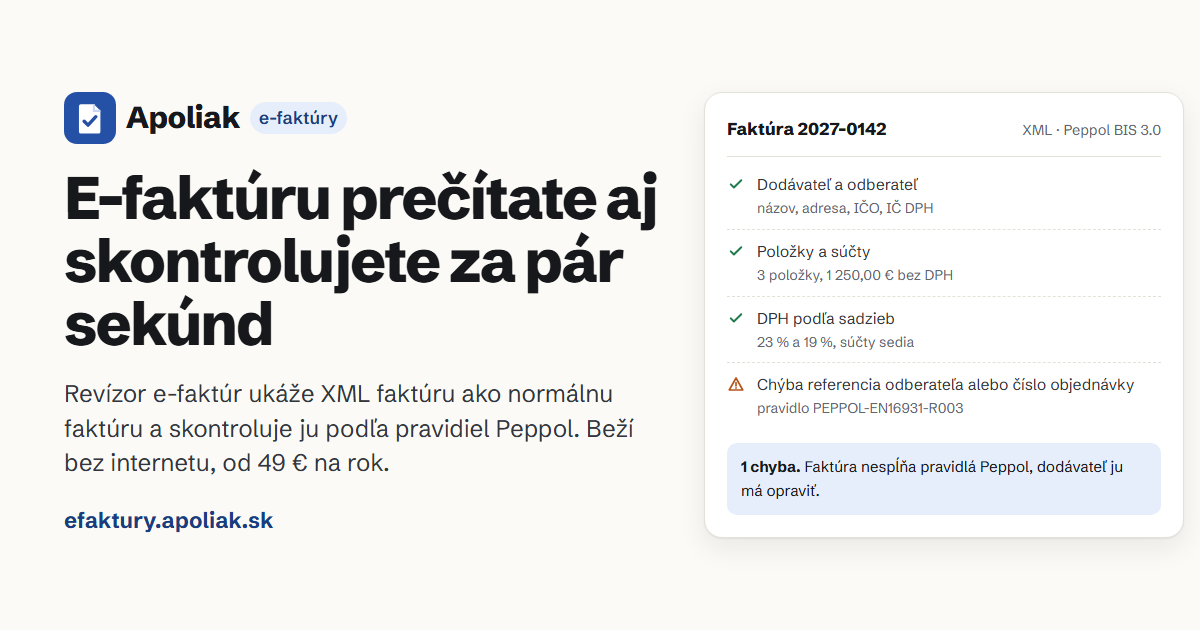
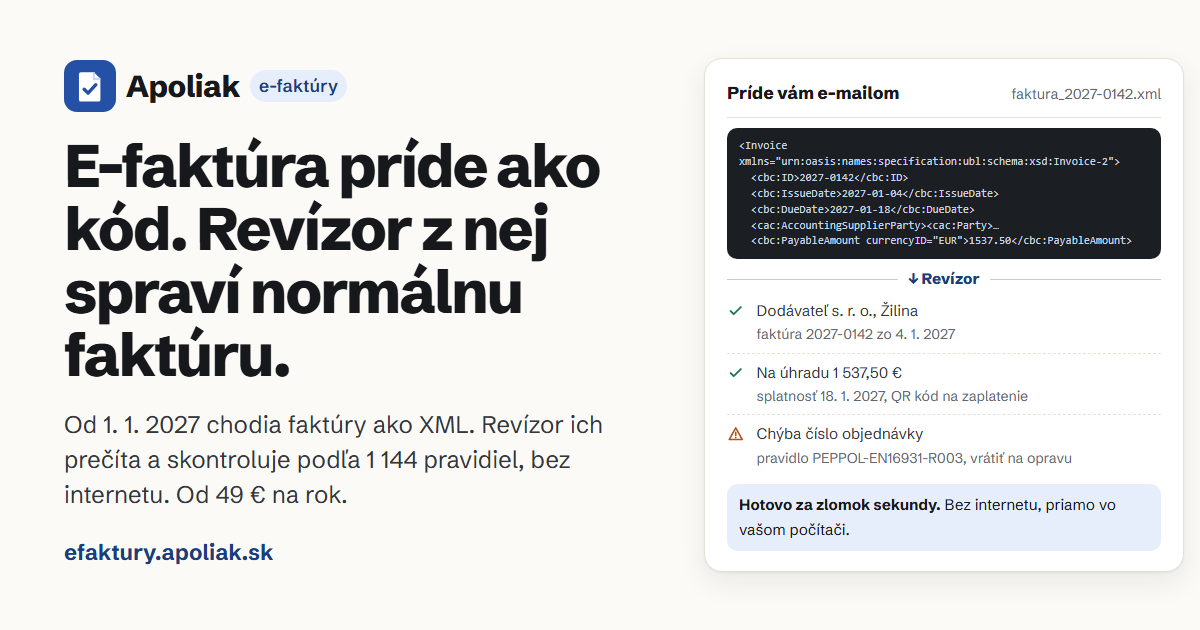
Pätička so živnosťou, úpravy textov

diff --git a/index.html b/index.html
@@ -5,16 +5,16 @@
   <meta http-equiv="Content-Security-Policy" content="default-src 'self'; script-src 'self'; style-src 'self' 'unsafe-inline'; img-src 'self' data:; font-src 'self'; connect-src 'self'; form-action 'self'; base-uri 'self'; object-src 'none'">
   <meta name="referrer" content="strict-origin-when-cross-origin">
   <meta name="viewport" content="width=device-width, initial-scale=1, viewport-fit=cover">
-  <title>Revízor e-faktúr: prečíta a skontroluje e-faktúru | Apoliak</title>
-  <meta name="description" content="Od 1. 1. 2027 chodia faktúry medzi firmami ako XML. Revízor ich ukáže ako normálnu faktúru, skontroluje podľa pravidiel Peppol a EN 16931 a beží bez internetu. Pre firmy aj účtovné kancelárie.">
+  <title>E-faktúry od 1. 1. 2027: Revízor ich prečíta aj skontroluje | Apoliak</title>
+  <meta name="description" content="Od 1. januára 2027 vám budú chodiť faktúry ako XML. Revízor z nich za sekundu spraví normálnu faktúru a skontroluje ich podľa 1 144 pravidiel. Bez internetu, od 49 € na rok.">
   <meta name="theme-color" content="#fbfaf7">
   <meta name="color-scheme" content="light">
   <link rel="canonical" href="https://efaktury.apoliak.sk/">
   <meta property="og:type" content="website">
   <meta property="og:locale" content="sk_SK">
   <meta property="og:site_name" content="Apoliak e-faktúry">
-  <meta property="og:title" content="E-faktúru prečítate aj skontrolujete za pár sekúnd">
-  <meta property="og:description" content="Revízor e-faktúr ukáže XML faktúru ako normálnu faktúru a skontroluje ju podľa pravidiel Peppol. Beží bez internetu, od 49 € na rok.">
+  <meta property="og:title" content="E-faktúra príde ako kód. Revízor z nej spraví normálnu faktúru.">
+  <meta property="og:description" content="Od 1. 1. 2027 chodia faktúry ako XML. Revízor ich prečíta a skontroluje podľa 1 144 pravidiel, bez internetu. Od 49 € na rok.">
   <meta property="og:url" content="https://efaktury.apoliak.sk/">
   <meta property="og:image" content="https://efaktury.apoliak.sk/assets/img/og-image.png">
   <meta property="og:image:width" content="1200">
@@ -32,7 +32,7 @@
   "applicationCategory": "BusinessApplication",
   "operatingSystem": "Windows, macOS (v prehliadači)",
   "url": "https://efaktury.apoliak.sk/",
-  "description": "Zobrazenie a kontrola elektronických faktúr podľa pravidiel Peppol BIS 3.0 a EN 16931, bez internetu.",
+  "description": "Čítanie a kontrola elektronických faktúr podľa 1 144 pravidiel Peppol BIS 3.0 a EN 16931, bez internetu.",
   "offers": [
     {
       "@type": "Offer",
@@ -69,7 +69,7 @@
   <header class="site-header">
     <div class="wrap header-inner">
       <a class="logo" href="./" aria-label="Apoliak e-faktúry – úvod"><svg class="logo-mark" viewBox="0 0 40 40" aria-hidden="true"><rect width="40" height="40" rx="10" fill="#2450a6"/><path d="M13 9.5h10l5 5v16a1.5 1.5 0 01-1.5 1.5h-13.5a1.5 1.5 0 01-1.5-1.5v-19.5a1.5 1.5 0 011.5-1.5z" fill="#fff"/><path d="M23 9.5v5h5" fill="none" stroke="#c9d6f3" stroke-width="1.6"/><path d="M15.5 22.5l3 3 6-6.5" fill="none" stroke="#2450a6" stroke-width="2.6" stroke-linecap="round" stroke-linejoin="round"/></svg>Apoliak <span class="logo-tag">e-faktúry</span></a>
-      <nav class="nav" aria-label="Hlavné menu"><a href="#zmena">Čo sa mení</a><a href="#funkcie">Čo vie Revízor</a><a href="#ukazka">Ukážka</a><a href="#cennik">Cenník</a><a href="#otazky">Otázky</a></nav>
+      <nav class="nav" aria-label="Hlavné menu"><a href="#ako">Ako to funguje</a><a href="#pre-koho">Pre koho</a><a href="#ukazka">Ukážka</a><a href="#cennik">Cena</a><a href="#otazky">Otázky</a></nav>
       <a class="btn btn--small" href="./#kontakt">Kontakt</a>
     </div>
   </header>
@@ -77,32 +77,65 @@
     <section class="hero">
       <div class="wrap hero-grid">
         <div>
-          <span class="eyebrow"><span class="nb">E-faktúry</span> od 1. januára 2027</span>
-          <h1><span class="nb">E-faktúru</span> prečítate aj skontrolujete za pár sekúnd</h1>
-          <p class="lead">Od januára budú firmám chodiť faktúry ako XML súbory. Revízor ich ukáže ako normálnu faktúru, povie, či sú v&nbsp;poriadku, a&nbsp;nič pritom neposiela na internet.</p>
-          <div class="cta-row"><a class="btn" href="ukazka/">Vyskúšať ukážku</a><a class="btn btn--ghost" href="#cennik">Cenník</a></div>
-          <ul class="facts"><li><svg class="icon" aria-hidden="true"><use href="#i-check"/></svg>Pravidlá Peppol BIS 3.0 a&nbsp;EN 16931</li><li><svg class="icon" aria-hidden="true"><use href="#i-check"/></svg>Beží bez internetu</li><li><svg class="icon" aria-hidden="true"><use href="#i-check"/></svg>Stačí prehliadač, nič sa neinštaluje</li></ul>
+          <span class="eyebrow"><span data-odpocet="2027-01-01"><span class="nb">E-faktúry</span> sú povinné od 1. januára 2027</span></span>
+          <h1><span class="nb">E-faktúra</span> príde ako kód. Revízor z&nbsp;nej spraví normálnu faktúru.</h1>
+          <p class="lead">Od januára budú firmám chodiť faktúry ako XML súbory, ktoré sa bez programu čítať nedajú. Revízor vám každú za sekundu ukáže ako normálnu faktúru, skontroluje ju podľa 1&nbsp;144 oficiálnych pravidiel a&nbsp;nič pritom neposiela na internet.</p>
+          <div class="cta-row"><a class="btn" href="#cennik">Objednať Revízor</a><a class="btn btn--ghost" href="ukazka/">Vyskúšať ukážku</a></div>
+          <ul class="facts"><li><svg class="icon" aria-hidden="true"><use href="#i-check"/></svg>1&nbsp;144 oficiálnych pravidiel</li><li><svg class="icon" aria-hidden="true"><use href="#i-check"/></svg>Faktúry neopustia váš počítač</li><li><svg class="icon" aria-hidden="true"><use href="#i-check"/></svg>Od 4&nbsp;€ mesačne</li></ul>
         </div>
-        <div><div class="panel" role="img" aria-label="Ukážka výsledku kontroly e-faktúry v Revízore">
-            <div class="panel-head"><span class="panel-title">Faktúra 2027-0142</span><span class="panel-sub">XML · Peppol BIS 3.0</span></div>
+        <div><div class="panel" role="img" aria-label="E-faktúra ako XML súbor a tá istá faktúra v Revízore">
+            <div class="panel-head"><span class="panel-title">Príde vám e-mailom</span><span class="panel-sub">faktura_2027-0142.xml</span></div>
+            <pre class="xml" aria-hidden="true">&lt;Invoice xmlns="urn:oasis:names:specification:ubl:schema:xsd:Invoice-2"&gt;
+  &lt;cbc:ID&gt;2027-0142&lt;/cbc:ID&gt;
+  &lt;cbc:IssueDate&gt;2027-01-04&lt;/cbc:IssueDate&gt;
+  &lt;cbc:DueDate&gt;2027-01-18&lt;/cbc:DueDate&gt;
+  &lt;cac:AccountingSupplierParty&gt;&lt;cac:Party&gt;…
+  &lt;cbc:PayableAmount currencyID="EUR"&gt;1537.50&lt;/cbc:PayableAmount&gt;</pre>
+            <div class="arrow">↓&nbsp;Revízor</div>
             <ul class="rows">
-              <li class="is-ok"><svg class="icon" aria-hidden="true"><use href="#i-check"/></svg><div>Dodávateľ a odberateľ<small>názov, adresa, IČO, IČ DPH</small></div></li>
-              <li class="is-ok"><svg class="icon" aria-hidden="true"><use href="#i-check"/></svg><div>Položky a súčty<small>3 položky, 1&nbsp;250,00&nbsp;€ bez DPH</small></div></li>
-              <li class="is-ok"><svg class="icon" aria-hidden="true"><use href="#i-check"/></svg><div>DPH podľa sadzieb<small>23&nbsp;% a 19&nbsp;%, súčty sedia</small></div></li>
-              <li class="is-warn"><svg class="icon" aria-hidden="true"><use href="#i-warn"/></svg><div>Chýba referencia odberateľa alebo číslo objednávky<small>pravidlo PEPPOL-EN16931-R003</small></div></li>
+              <li class="is-ok"><svg class="icon" aria-hidden="true"><use href="#i-check"/></svg><div>Dodávateľ s.&nbsp;r.&nbsp;o., Žilina<small>faktúra 2027-0142 zo 4. 1. 2027</small></div></li>
+              <li class="is-ok"><svg class="icon" aria-hidden="true"><use href="#i-check"/></svg><div>Na úhradu 1&nbsp;537,50&nbsp;€<small>splatnosť 18. 1. 2027, QR kód na zaplatenie</small></div></li>
+              <li class="is-warn"><svg class="icon" aria-hidden="true"><use href="#i-warn"/></svg><div>Chýba číslo objednávky<small>pravidlo PEPPOL-EN16931-R003, vrátiť na opravu</small></div></li>
             </ul>
-            <div class="panel-foot"><strong>1 chyba.</strong> Faktúra nespĺňa pravidlá Peppol, dodávateľ ju má opraviť.</div>
+            <div class="panel-foot"><strong>Hotovo za zlomok sekundy.</strong> Bez internetu, priamo vo vašom počítači.</div>
           </div></div>
       </div>
     </section>
     <section class="section" id="zmena" aria-labelledby="zmena-nadpis">
-      <div class="wrap"><div class="section-head"><h2 id="zmena-nadpis">Čo sa mení od 1. januára 2027</h2><p>Novela zákona o&nbsp;DPH (zákon č. 385/2025 Z. z.) zavádza povinné elektronické faktúry. Týka sa to takmer každej firmy na Slovensku.</p></div><div class="cards"><article class="card"><h3>Platitelia DPH vystavujú <span class="nb">e-faktúry</span></h3><p>Faktúry medzi firmami na Slovensku posielajú ako XML súbor cez sieť Peppol, nie ako PDF.</p></article><article class="card"><h3>Prijať ich musí každá firma</h3><p>Aj neplatiteľ DPH musí vedieť <span class="nb">e-faktúru</span> prijať. Príde súbor, ktorý sa bez programu poriadne čítať nedá.</p></article><article class="card"><h3>Chyby treba vybaviť skôr</h3><p>Chybná <span class="nb">e-faktúra</span> narobí problémy v&nbsp;účtovníctve. Kto ju skontroluje hneď pri prijatí, vybaví opravu s&nbsp;dodávateľom včas.</p></article></div></div>
+      <div class="wrap"><div class="section-head"><h2 id="zmena-nadpis">Čo sa 1. januára zmení</h2><p>Novela zákona o&nbsp;DPH (zákon č. 385/2025 Z. z.) zavádza povinné elektronické faktúry. Dotkne sa to takmer každej firmy na Slovensku.</p></div><div class="cards"><article class="card"><h3>Faktúry prídu ako kód</h3><p>Platitelia DPH posielajú faktúry medzi firmami ako XML súbor cez sieť Peppol. Otvorený v&nbsp;prehliadači vyzerá ako ukážka hore.</p></article><article class="card"><h3>Prijať ich musí každý</h3><p>Aj neplatiteľ DPH musí vedieť <span class="nb">e-faktúru</span> prijať. Kto ju neotvorí, nevie, koľko a&nbsp;dokedy má zaplatiť.</p></article><article class="card"><h3>Chyby sa odhalia neskoro</h3><p>Chybnú faktúru treba vrátiť dodávateľovi. Kto ju zachytí až pri uzávierke, rieši opravy narýchlo a&nbsp;po termíne.</p></article></div></div>
+    </section>
+    <section class="section section--alt" id="ako" aria-labelledby="ako-nadpis">
+      <div class="wrap"><div class="section-head"><h2 id="ako-nadpis">Ako to funguje</h2></div><ol class="steps"><li><h3>Otvoríte Revízor</h3><p>Jeden súbor, dvojklik a&nbsp;otvorí sa v&nbsp;prehliadači. Nič sa neinštaluje.</p></li><li><h3>Vložíte XML</h3><p>Jednu faktúru alebo faktúry za celý mesiac naraz.</p></li><li><h3>Vidíte faktúru</h3><p>Dodávateľ, položky, DPH, splatnosť a&nbsp;QR kód na zaplatenie, ako na papieri.</p></li><li><h3>Viete, čo je zle</h3><p>Každú chybu Revízor vysvetlí po slovensky, takže dodávateľovi presne napíšete, čo má opraviť.</p></li></ol></div>
+    </section>
+    <section class="section" id="pre-koho" aria-labelledby="pre-koho-nadpis">
+      <div class="wrap"><div class="section-head"><h2 id="pre-koho-nadpis">Pre koho je Revízor</h2><p>Najviac ušetrí tam, kde <span class="nb">e-faktúr</span> chodí veľa. Pomôže však každému, kto ich musí prijímať.</p></div><div class="cards cards--2">
+          <article class="card card--big">
+            <h3>Účtovné kancelárie</h3>
+            <p>Klienti vám od januára budú nosiť XML súbory po desiatkach. Revízor ich skontroluje naraz, chybné vyznačí a&nbsp;výsledok dá do tabuľky, ktorú pošlete klientovi.</p>
+            <ul class="checks">
+              <li><svg class="icon" aria-hidden="true"><use href="#i-check"/></svg><span>Kontrola faktúr za celý mesiac naraz</span></li>
+              <li><svg class="icon" aria-hidden="true"><use href="#i-check"/></svg><span>Faktúry všetkých klientov v&nbsp;jednej licencii</span></li>
+              <li><svg class="icon" aria-hidden="true"><use href="#i-check"/></svg><span>Na všetkých počítačoch v&nbsp;kancelárii</span></li>
+            </ul>
+            <p class="card-price"><strong>149&nbsp;€ na rok</strong> za všetkých klientov, teda asi 12&nbsp;€ mesačne</p>
+          </article>
+          <article class="card card--big">
+            <h3>Firmy a&nbsp;živnostníci</h3>
+            <p>Faktúru od dodávateľa otvoríte dvojklikom a&nbsp;hneď viete, koľko a&nbsp;dokedy zaplatiť a&nbsp;či je v&nbsp;poriadku. Vlastnú <span class="nb">e-faktúru</span> pripravíte vo formulári.</p>
+            <ul class="checks">
+              <li><svg class="icon" aria-hidden="true"><use href="#i-check"/></svg><span>Čitateľná faktúra s&nbsp;QR kódom na platbu</span></li>
+              <li><svg class="icon" aria-hidden="true"><use href="#i-check"/></svg><span>Kontrola pred zaplatením aj pred odoslaním</span></li>
+              <li><svg class="icon" aria-hidden="true"><use href="#i-check"/></svg><span>Vystavenie <span class="nb">e-faktúry</span> vo formáte Peppol</span></li>
+            </ul>
+            <p class="card-price"><strong>49&nbsp;€ na rok</strong>, teda asi 4&nbsp;€ mesačne</p>
+          </article>
+        </div></div>
     </section>
     <section class="section section--alt" id="funkcie" aria-labelledby="funkcie-nadpis">
-      <div class="wrap"><div class="section-head"><h2 id="funkcie-nadpis">Čo Revízor urobí</h2><p>Revízor je jeden súbor, ktorý otvoríte v&nbsp;prehliadači. Faktúry spracúva priamo vo vašom počítači.</p></div><div class="cards"><article class="card"><h3>Ukáže faktúru ako na papieri</h3><p>Dodávateľ, odberateľ, položky, DPH, splatnosť aj QR kód PAY by square na zaplatenie. Faktúru vytlačíte alebo uložíte do PDF.</p></article><article class="card"><h3>Skontroluje ju podľa pravidiel</h3><p>Podľa pravidiel Peppol BIS 3.0 a&nbsp;normy EN 16931, ktoré platia v&nbsp;celej Európe. Každú chybu vysvetlí po slovensky.</p></article><article class="card"><h3>Celý mesiac naraz</h3><p>Vložíte desiatky faktúr a&nbsp;Revízor skontroluje každú z&nbsp;nich. Výsledok uložíte do tabuľky alebo do ZIP.</p></article><article class="card"><h3>Vystaví <span class="nb">e-faktúru</span></h3><p>Vyplníte formulár a&nbsp;Revízor pripraví XML vo formáte Peppol UBL, ktoré pošlete cez svojho poskytovateľa.</p></article><article class="card"><h3>Prevedie CII na UBL</h3><p>Faktúry vo formáte CII, napríklad nemecký ZUGFeRD, prevedie na UBL, s&nbsp;ktorým pracuje sieť Peppol.</p></article><article class="card"><h3>Nič neodosiela</h3><p>Revízor nemá prístup na internet. Faktúry s&nbsp;cenami a&nbsp;menami vašich klientov zostanú vo vašom počítači.</p></article></div><div class="callout"><svg class="icon" aria-hidden="true"><use href="#i-warn"/></svg><div><h3>Revízor faktúry neposiela</h3><p>Posielať a&nbsp;prijímať <span class="nb">e-faktúry</span> cez sieť Peppol môže len poskytovateľ zo zoznamu finančnej správy, takzvaný digitálny poštár. Revízor ho nenahrádza. Pomôže vám faktúry prečítať, skontrolovať a&nbsp;pripraviť.</p></div></div></div>
+      <div class="wrap"><div class="section-head"><h2 id="funkcie-nadpis">Čo všetko Revízor vie</h2></div><div class="cards"><article class="card"><h3>Čitateľná faktúra</h3><p>Dodávateľ, odberateľ, položky, DPH, splatnosť aj QR kód PAY by square. Faktúru vytlačíte alebo uložíte do PDF.</p></article><article class="card"><h3>1&nbsp;144 oficiálnych pravidiel</h3><p>Tie isté pravidlá Peppol BIS 3.0 a&nbsp;normy EN 16931, podľa ktorých sa <span class="nb">e-faktúry</span> kontrolujú v&nbsp;celej Európe.</p></article><article class="card"><h3>Celý mesiac naraz</h3><p>Vložíte desiatky faktúr, Revízor skontroluje každú z&nbsp;nich a&nbsp;výsledok uloží do tabuľky.</p></article><article class="card"><h3>Vystavenie <span class="nb">e-faktúry</span></h3><p>Vyplníte formulár a&nbsp;Revízor pripraví XML vo formáte Peppol UBL, ktoré pošlete cez svojho poskytovateľa.</p></article><article class="card"><h3>Prevod CII na UBL</h3><p>Faktúry vo formáte CII, napríklad nemecký ZUGFeRD, prevedie na UBL, s&nbsp;ktorým pracuje sieť Peppol.</p></article><article class="card"><h3>Žiadny únik údajov</h3><p>Revízor sa na internet nepripája. Ceny, klienti ani sumy neodídu z&nbsp;vášho počítača.</p></article></div></div>
     </section>
     <section class="section" id="ukazka" aria-labelledby="ukazka-nadpis">
-      <div class="wrap"><div class="section-head"><h2 id="ukazka-nadpis">Vyskúšajte Revízor na vzorovej faktúre</h2><p>Ukážka je celý Revízor, len nevie faktúru stiahnuť ani vytlačiť. Stiahnite si vzor a&nbsp;vložte ho do ukážky, alebo skúste vlastnú <span class="nb">e-faktúru</span>.</p></div><div class="demo">
+      <div class="wrap"><div class="section-head"><h2 id="ukazka-nadpis">Vyskúšajte ho skôr, ako zaplatíte</h2><p>Ukážka je celý Revízor, len nevie faktúru stiahnuť ani vytlačiť. Vložte do nej vzorovú alebo vlastnú <span class="nb">e-faktúru</span>.</p></div><div class="demo">
           <div>
             <p><a class="btn" href="ukazka/">Otvoriť ukážku Revízora</a></p>
             <p class="small">Ukážka beží len vo vašom prehliadači. Faktúry, ktoré do nej vložíte, nikam neodchádzajú.</p>
@@ -117,22 +150,22 @@
         </div></div>
     </section>
     <section class="section section--alt" id="cennik" aria-labelledby="cennik-nadpis">
-      <div class="wrap"><div class="section-head"><h2 id="cennik-nadpis">Cenník</h2><p>Platíte raz za rok. Revízor, ktorý dostanete, vám zostane aj potom, len už nebude dostávať nové pravidlá.</p></div><div class="prices"><article class="price"><div class="price-name">Pre firmu</div><div class="price-amount">49&nbsp;€ <span class="price-unit">na rok</span></div><p class="price-note">pre faktúry jednej firmy</p><ul class="checks"><li><svg class="icon" aria-hidden="true"><use href="#i-check"/></svg><span>Čítanie a&nbsp;kontrola faktúr bez obmedzenia</span></li><li><svg class="icon" aria-hidden="true"><use href="#i-check"/></svg><span>Vystavenie <span class="nb">e-faktúry</span> a&nbsp;prevod CII na UBL</span></li><li><svg class="icon" aria-hidden="true"><use href="#i-check"/></svg><span>Kontrola po dávkach a&nbsp;výsledok do tabuľky</span></li><li><svg class="icon" aria-hidden="true"><use href="#i-check"/></svg><span>Nové pravidlá počas celého roka</span></li></ul><a class="btn btn--ghost" href="mailto:efaktury@apoliak.sk?subject=Objedn%C3%A1vka%20Rev%C3%ADzora%20pre%20firmu&amp;body=Dobr%C3%BD%20de%C5%88%2C%0A%0Aobjedn%C3%A1vam%20Rev%C3%ADzor%20e-fakt%C3%BAr%20pre%20firmu%20na%201%20rok%20%2849%20%E2%82%AC%29.%0A%0AFirma%3A%0AI%C4%8CO%3A%0AE-mail%2C%20kam%20posla%C5%A5%20Rev%C3%ADzor%3A%0A%0A%C4%8Eakujem">Objednať pre firmu</a></article><article class="price price--main"><div class="price-name">Pre účtovnú kanceláriu</div><div class="price-amount">149&nbsp;€ <span class="price-unit">na rok</span></div><p class="price-note">pre faktúry všetkých vašich klientov</p><ul class="checks"><li><svg class="icon" aria-hidden="true"><use href="#i-check"/></svg><span>Všetko z&nbsp;balíka pre firmu</span></li><li><svg class="icon" aria-hidden="true"><use href="#i-check"/></svg><span>Faktúry ľubovoľného počtu klientov</span></li><li><svg class="icon" aria-hidden="true"><use href="#i-check"/></svg><span>Na všetkých počítačoch v&nbsp;kancelárii</span></li><li><svg class="icon" aria-hidden="true"><use href="#i-check"/></svg><span>Odpoveď na otázky do jedného pracovného dňa</span></li></ul><a class="btn" href="mailto:efaktury@apoliak.sk?subject=Objedn%C3%A1vka%20Rev%C3%ADzora%20pre%20%C3%BA%C4%8Dtovn%C3%BA%20kancel%C3%A1riu&amp;body=Dobr%C3%BD%20de%C5%88%2C%0A%0Aobjedn%C3%A1vam%20Rev%C3%ADzor%20e-fakt%C3%BAr%20pre%20%C3%BA%C4%8Dtovn%C3%BA%20kancel%C3%A1riu%20na%201%20rok%20%28149%20%E2%82%AC%29.%0A%0AKancel%C3%A1ria%3A%0AI%C4%8CO%3A%0AE-mail%2C%20kam%20posla%C5%A5%20Rev%C3%ADzor%3A%0A%0A%C4%8Eakujem">Objednať pre kanceláriu</a></article></div><p class="prices-after">Ceny sú konečné, nie sme platiteľmi DPH. Pošleme vám faktúru so splatnosťou 7&nbsp;dní a&nbsp;Revízor dostanete <span class="nb">e-mailom</span> hneď po pripísaní platby. Keď sa zmenia pravidlá Peppol, spravidla v&nbsp;máji a&nbsp;v&nbsp;novembri, pošleme novú verziu.</p></div>
+      <div class="wrap"><div class="section-head"><h2 id="cennik-nadpis">Cena</h2><p>Platíte raz ročne. Revízor, ktorý dostanete, vám zostane aj potom, len už nebude dostávať nové pravidlá.</p></div><div class="prices"><article class="price"><div class="price-name">Pre firmu</div><div class="price-amount">49&nbsp;€ <span class="price-unit">na rok</span></div><p class="price-note">teda asi 4&nbsp;€ mesačne, pre faktúry jednej firmy</p><ul class="checks"><li><svg class="icon" aria-hidden="true"><use href="#i-check"/></svg><span>Čítanie a&nbsp;kontrola faktúr bez obmedzenia</span></li><li><svg class="icon" aria-hidden="true"><use href="#i-check"/></svg><span>Vystavenie <span class="nb">e-faktúry</span> a&nbsp;prevod CII na UBL</span></li><li><svg class="icon" aria-hidden="true"><use href="#i-check"/></svg><span>Kontrola po dávkach a&nbsp;výsledok do tabuľky</span></li><li><svg class="icon" aria-hidden="true"><use href="#i-check"/></svg><span>Nové pravidlá počas celého roka</span></li></ul><a class="btn btn--ghost" href="mailto:efaktury@apoliak.sk?subject=Objedn%C3%A1vka%20Rev%C3%ADzora%20pre%20firmu&amp;body=Dobr%C3%BD%20de%C5%88%2C%0A%0Aobjedn%C3%A1vam%20Rev%C3%ADzor%20e-fakt%C3%BAr%20pre%20firmu%20na%201%20rok%20%2849%20%E2%82%AC%29.%0A%0AFirma%3A%0AI%C4%8CO%3A%0AE-mail%2C%20kam%20posla%C5%A5%20Rev%C3%ADzor%3A%0A%0A%C4%8Eakujem">Objednať pre firmu</a></article><article class="price price--main"><div class="price-name">Pre účtovnú kanceláriu</div><div class="price-amount">149&nbsp;€ <span class="price-unit">na rok</span></div><p class="price-note">teda asi 12&nbsp;€ mesačne, za všetkých klientov</p><ul class="checks"><li><svg class="icon" aria-hidden="true"><use href="#i-check"/></svg><span>Všetko z&nbsp;balíka pre firmu</span></li><li><svg class="icon" aria-hidden="true"><use href="#i-check"/></svg><span>Faktúry ľubovoľného počtu klientov</span></li><li><svg class="icon" aria-hidden="true"><use href="#i-check"/></svg><span>Na všetkých počítačoch v&nbsp;kancelárii</span></li><li><svg class="icon" aria-hidden="true"><use href="#i-check"/></svg><span>Odpoveď na otázky do jedného pracovného dňa</span></li></ul><a class="btn" href="mailto:efaktury@apoliak.sk?subject=Objedn%C3%A1vka%20Rev%C3%ADzora%20pre%20%C3%BA%C4%8Dtovn%C3%BA%20kancel%C3%A1riu&amp;body=Dobr%C3%BD%20de%C5%88%2C%0A%0Aobjedn%C3%A1vam%20Rev%C3%ADzor%20e-fakt%C3%BAr%20pre%20%C3%BA%C4%8Dtovn%C3%BA%20kancel%C3%A1riu%20na%201%20rok%20%28149%20%E2%82%AC%29.%0A%0AKancel%C3%A1ria%3A%0AI%C4%8CO%3A%0AE-mail%2C%20kam%20posla%C5%A5%20Rev%C3%ADzor%3A%0A%0A%C4%8Eakujem">Objednať pre kanceláriu</a></article></div><p class="prices-after">Ceny sú konečné, nie sme platiteľmi DPH. Objednávku pošlete <span class="nb">e-mailom</span>, my pošleme faktúru a&nbsp;Revízor dostanete hneď po pripísaní platby, zvyčajne v&nbsp;ten istý deň. Keď sa zmenia pravidlá Peppol, spravidla v&nbsp;máji a&nbsp;v&nbsp;novembri, novú verziu vám pošleme sami.</p></div>
     </section>
     <section class="section" id="otazky" aria-labelledby="otazky-nadpis">
-      <div class="wrap"><div class="section-head"><h2 id="otazky-nadpis">Časté otázky</h2></div><div class="faq"><details><summary>Potrebujem Revízor, keď mám fakturačný program?</summary><div><p>Nemusíte. Ak váš program vie <span class="nb">e-faktúry</span> čítať aj kontrolovať, stačí vám. Revízor sa hodí, keď chcete faktúru skontrolovať nezávisle od programu, prečítať XML, ktoré prišlo <span class="nb">e-mailom</span>, alebo skontrolovať naraz faktúry za celý mesiac.</p></div></details><details><summary>Pošle Revízor <span class="nb">e-faktúru</span> odberateľovi?</summary><div><p>Nie. Posielanie cez sieť Peppol robí poskytovateľ zo zoznamu finančnej správy. Revízor súbor pripraví a&nbsp;skontroluje, odošle ho váš poskytovateľ.</p></div></details><details><summary>Kam idú moje faktúry?</summary><div><p>Nikam. Revízor beží len vo vašom počítači a&nbsp;na internet sa nepripája. Nikto okrem vás faktúry nevidí.</p></div></details><details><summary>Na akom počítači Revízor funguje?</summary><div><p>V&nbsp;aktuálnom prehliadači Chrome, Edge, Firefox alebo Safari, na Windowse aj na Macu. Nič sa neinštaluje, Revízor je jeden súbor, ktorý otvoríte dvojklikom.</p></div></details><details><summary>Čo keď sa pravidlá zmenia?</summary><div><p>Počas zaplateného roka vám novú verziu pošleme <span class="nb">e-mailom</span> vždy, keď Peppol alebo finančná správa pravidlá zmení. Po roku vám Revízor funguje ďalej, len bez nových pravidiel.</p></div></details><details><summary>Ako zaplatím?</summary><div><p>Po objednávke vám <span class="nb">e-mailom</span> pošleme faktúru so splatnosťou 7&nbsp;dní. Platíte prevodom na účet, Revízor dostanete hneď po pripísaní platby.</p></div></details></div></div>
+      <div class="wrap"><div class="section-head"><h2 id="otazky-nadpis">Časté otázky</h2></div><div class="faq"><details><summary>Čím sa Revízor líši od fakturačného programu?</summary><div><p>Fakturačný program faktúry vystavuje a&nbsp;eviduje. Revízor je nezávislá kontrola: povie, či <span class="nb">e-faktúra</span> spĺňa pravidlá a&nbsp;čo presne je zle, a&nbsp;ukáže ju čitateľne aj vtedy, keď prišla <span class="nb">e-mailom</span> mimo programu. Účtovná kancelária ním skontroluje faktúry všetkých klientov, nech používajú akýkoľvek program.</p></div></details><details><summary>Pošle Revízor <span class="nb">e-faktúru</span> odberateľovi?</summary><div><p>Nie. Posielanie cez sieť Peppol robí poskytovateľ zo zoznamu finančnej správy, takzvaný digitálny poštár. Revízor súbor pripraví a&nbsp;skontroluje, odošle ho váš poskytovateľ.</p></div></details><details><summary>Kam idú moje faktúry?</summary><div><p>Nikam. Revízor beží len vo vašom počítači a&nbsp;na internet sa nepripája. Nikto okrem vás faktúry nevidí.</p></div></details><details><summary>Na akom počítači Revízor funguje?</summary><div><p>V&nbsp;aktuálnom prehliadači Chrome, Edge, Firefox alebo Safari, na Windowse aj na Macu. Nič sa neinštaluje, Revízor je jeden súbor, ktorý otvoríte dvojklikom.</p></div></details><details><summary>Čo keď sa pravidlá zmenia?</summary><div><p>Počas zaplateného roka vám novú verziu pošleme <span class="nb">e-mailom</span> vždy, keď Peppol alebo finančná správa pravidlá zmení. Po roku vám Revízor funguje ďalej, len bez nových pravidiel.</p></div></details><details><summary>Ako zaplatím?</summary><div><p>Po objednávke vám <span class="nb">e-mailom</span> pošleme faktúru so splatnosťou 7&nbsp;dní. Platíte prevodom na účet a&nbsp;Revízor dostanete hneď po pripísaní platby.</p></div></details></div></div>
     </section>
     <section class="section section--alt" id="kontakt" aria-labelledby="kontakt-nadpis">
       <div class="wrap contact">
         <div>
-          <h2 id="kontakt-nadpis">Objednávka a&nbsp;otázky</h2>
-          <p>Napíšte, či Revízor chcete pre jednu firmu alebo pre účtovnú kanceláriu. Pošleme faktúru a&nbsp;po zaplatení aj Revízor.</p>
-          <p class="small">Pýtajte sa aj vtedy, keď si nie ste istí, či Revízor potrebujete. Ak vám stačí váš fakturačný program, povieme vám to na rovinu.</p>
+          <h2 id="kontakt-nadpis">Objednajte Revízor ešte pred januárom</h2>
+          <p>Napíšte, či ho chcete pre firmu alebo pre účtovnú kanceláriu. Pošleme faktúru a&nbsp;hneď po zaplatení aj Revízor, aby ste boli pripravení skôr, ako prídu prvé <span class="nb">e-faktúry</span>.</p>
+          <p class="small">Otázky radi zodpovieme aj telefonicky.</p>
         </div>
         <div class="contact-box">
           <a class="contact-line" href="mailto:efaktury@apoliak.sk"><svg class="icon" aria-hidden="true"><use href="#i-mail"/></svg>efaktury@apoliak.sk</a>
           <a class="contact-line" href="tel:+421902464022"><svg class="icon" aria-hidden="true"><use href="#i-phone"/></svg>0902 464 022</a>
-          <a class="btn" href="mailto:efaktury@apoliak.sk?subject=Rev%C3%ADzor%20e-fakt%C3%BAr">Napísať e-mail</a>
+          <a class="btn" href="mailto:efaktury@apoliak.sk?subject=Objedn%C3%A1vka%20Rev%C3%ADzora&amp;body=Dobr%C3%BD%20de%C5%88%2C%0A%0Aobjedn%C3%A1vam%20Rev%C3%ADzor%20e-fakt%C3%BAr%20na%201%20rok%3A%0A%28%20%29%20pre%20firmu%2C%2049%20%E2%82%AC%0A%28%20%29%20pre%20%C3%BA%C4%8Dtovn%C3%BA%20kancel%C3%A1riu%2C%20149%20%E2%82%AC%0A%0AFirma%3A%0AI%C4%8CO%3A%0AE-mail%2C%20kam%20posla%C5%A5%20Rev%C3%ADzor%3A%0A%0A%C4%8Eakujem">Objednať Revízor e-mailom</a>
           <p class="small">Odpovedáme spravidla v&nbsp;ten istý alebo nasledujúci pracovný deň.</p>
         </div>
       </div>
@@ -142,7 +175,8 @@
   <footer class="site-footer">
     <div class="wrap footer-grid">
       <div>
-        <p>© <span data-year>2026</span> Apoliak, Bratislava. IČO 57&nbsp;990&nbsp;883. Nie sme platiteľmi DPH.</p>
+        <p>© <span data-year>2026</span> Apoliak</p>
+        <p>Apoliak, podnikajúca fyzická osoba pôsobiaca v&nbsp;Bratislave, IČO 57&nbsp;990&nbsp;883, zapísaná v&nbsp;živnostenskom registri Okresného úradu Senec, č. 140-39176. Nie sme platiteľmi DPH.</p>
         <p><a href="mailto:efaktury@apoliak.sk">efaktury@apoliak.sk</a> · <a href="tel:+421902464022">0902 464 022</a></p>
         <p><a href="obchodne-podmienky.html">Obchodné podmienky</a> · <a href="ochrana-osobnych-udajov.html">Ochrana osobných údajov</a></p>
         <p>Revízor nie je poskytovateľ doručovacej služby (digitálny poštár) a&nbsp;nie je prepojený s&nbsp;finančnou správou.</p>

diff --git a/assets/css/style.css b/assets/css/style.css
@@ -119,6 +119,11 @@ strong { color: var(--ink); }
 .rows small { display: block; color: var(--muted); font-size: .88rem; }
 .panel-foot { margin-top: 14px; padding: 12px 14px; border-radius: 10px; background: var(--accent-soft); color: var(--ink); font-size: .95rem; }
 
+/* XML → čitateľná faktúra (efaktury) */
+.xml { margin: 12px 0 0; padding: 12px 14px; background: #1b1f24; color: #c9d4e3; border-radius: 10px; font: 12.5px/1.55 ui-monospace, "Cascadia Mono", Consolas, monospace; white-space: pre-wrap; overflow-wrap: anywhere; }
+.arrow { display: flex; align-items: center; gap: 10px; margin: 14px 0 2px; color: var(--accent-ink); font-weight: 800; font-size: .95rem; }
+.arrow::before, .arrow::after { content: ""; flex: 1; height: 1px; background: var(--line-2); }
+
 /* ---------- sekcie ---------- */
 .section { padding: 72px 0; }
 .section--alt { background: var(--paper-2); border-top: 1px solid var(--line); border-bottom: 1px solid var(--line); }
@@ -130,6 +135,11 @@ strong { color: var(--ink); }
 .cards--4 { grid-template-columns: repeat(4, minmax(0, 1fr)); }
 .card { background: var(--white); border: 1px solid var(--line); border-radius: var(--radius); padding: 24px; }
 .card p:last-child { margin-bottom: 0; }
+.card--big { padding: 30px; display: flex; flex-direction: column; }
+.card--big h3 { font-size: 1.45rem; }
+.card--big .checks { margin: 16px 0 20px; }
+.card-price { margin: auto 0 0; padding-top: 16px; border-top: 1px solid var(--line); color: var(--muted); }
+.card-price strong { font-size: 1.3rem; }
 .card-num { display: inline-grid; place-items: center; width: 38px; height: 38px; border-radius: 10px; background: var(--accent-soft); color: var(--accent-ink); font-weight: 800; margin-bottom: 14px; }
 
 .steps { list-style: none; counter-reset: krok; padding: 0; margin: 0; display: grid; grid-template-columns: repeat(4, minmax(0, 1fr)); gap: 20px; }

diff --git a/obchodne-podmienky.html b/obchodne-podmienky.html
@@ -50,7 +50,8 @@
   <footer class="site-footer">
     <div class="wrap footer-grid">
       <div>
-        <p>© <span data-year>2026</span> Apoliak, Bratislava. IČO 57&nbsp;990&nbsp;883. Nie sme platiteľmi DPH.</p>
+        <p>© <span data-year>2026</span> Apoliak</p>
+        <p>Apoliak, podnikajúca fyzická osoba pôsobiaca v&nbsp;Bratislave, IČO 57&nbsp;990&nbsp;883, zapísaná v&nbsp;živnostenskom registri Okresného úradu Senec, č. 140-39176. Nie sme platiteľmi DPH.</p>
         <p><a href="mailto:efaktury@apoliak.sk">efaktury@apoliak.sk</a> · <a href="tel:+421902464022">0902 464 022</a></p>
         <p><a href="obchodne-podmienky.html">Obchodné podmienky</a> · <a href="ochrana-osobnych-udajov.html">Ochrana osobných údajov</a></p>
         <p>Revízor nie je poskytovateľ doručovacej služby (digitálny poštár) a&nbsp;nie je prepojený s&nbsp;finančnou správou.</p>

diff --git a/ochrana-osobnych-udajov.html b/ochrana-osobnych-udajov.html
@@ -49,7 +49,8 @@
   <footer class="site-footer">
     <div class="wrap footer-grid">
       <div>
-        <p>© <span data-year>2026</span> Apoliak, Bratislava. IČO 57&nbsp;990&nbsp;883. Nie sme platiteľmi DPH.</p>
+        <p>© <span data-year>2026</span> Apoliak</p>
+        <p>Apoliak, podnikajúca fyzická osoba pôsobiaca v&nbsp;Bratislave, IČO 57&nbsp;990&nbsp;883, zapísaná v&nbsp;živnostenskom registri Okresného úradu Senec, č. 140-39176. Nie sme platiteľmi DPH.</p>
         <p><a href="mailto:efaktury@apoliak.sk">efaktury@apoliak.sk</a> · <a href="tel:+421902464022">0902 464 022</a></p>
         <p><a href="obchodne-podmienky.html">Obchodné podmienky</a> · <a href="ochrana-osobnych-udajov.html">Ochrana osobných údajov</a></p>
         <p>Revízor nie je poskytovateľ doručovacej služby (digitálny poštár) a&nbsp;nie je prepojený s&nbsp;finančnou správou.</p>

diff --git a/404.html b/404.html
@@ -42,7 +42,8 @@
   <footer class="site-footer">
     <div class="wrap footer-grid">
       <div>
-        <p>© <span data-year>2026</span> Apoliak, Bratislava. IČO 57&nbsp;990&nbsp;883. Nie sme platiteľmi DPH.</p>
+        <p>© <span data-year>2026</span> Apoliak</p>
+        <p>Apoliak, podnikajúca fyzická osoba pôsobiaca v&nbsp;Bratislave, IČO 57&nbsp;990&nbsp;883, zapísaná v&nbsp;živnostenskom registri Okresného úradu Senec, č. 140-39176. Nie sme platiteľmi DPH.</p>
         <p><a href="mailto:efaktury@apoliak.sk">efaktury@apoliak.sk</a> · <a href="tel:+421902464022">0902 464 022</a></p>
         <p><a href="/">Späť na úvod</a></p>
         <p>Revízor nie je poskytovateľ doručovacej služby (digitálny poštár) a&nbsp;nie je prepojený s&nbsp;finančnou správou.</p>

diff --git a/assets/js/main.js b/assets/js/main.js
@@ -3,3 +3,13 @@
 document.querySelectorAll("[data-year]").forEach(function (el) {
   el.textContent = String(new Date().getFullYear());
 });
+
+// Odpočet do dátumu v data-odpocet (e-faktúry od 1. 1. 2027). Po dátume ostane pôvodný text zo stránky.
+document.querySelectorAll("[data-odpocet]").forEach(function (el) {
+  var ciel = new Date(el.getAttribute("data-odpocet") + "T00:00:00");
+  var dni = Math.ceil((ciel - new Date()) / 86400000);
+  if (!(dni > 0)) return;
+  var slovo = dni === 1 ? "deň" : (dni <= 4 ? "dni" : "dní");
+  var sloveso = dni >= 2 && dni <= 4 ? "zostávajú" : "zostáva";
+  el.textContent = "Do povinných e-faktúr " + sloveso + " " + dni + " " + slovo;
+});
